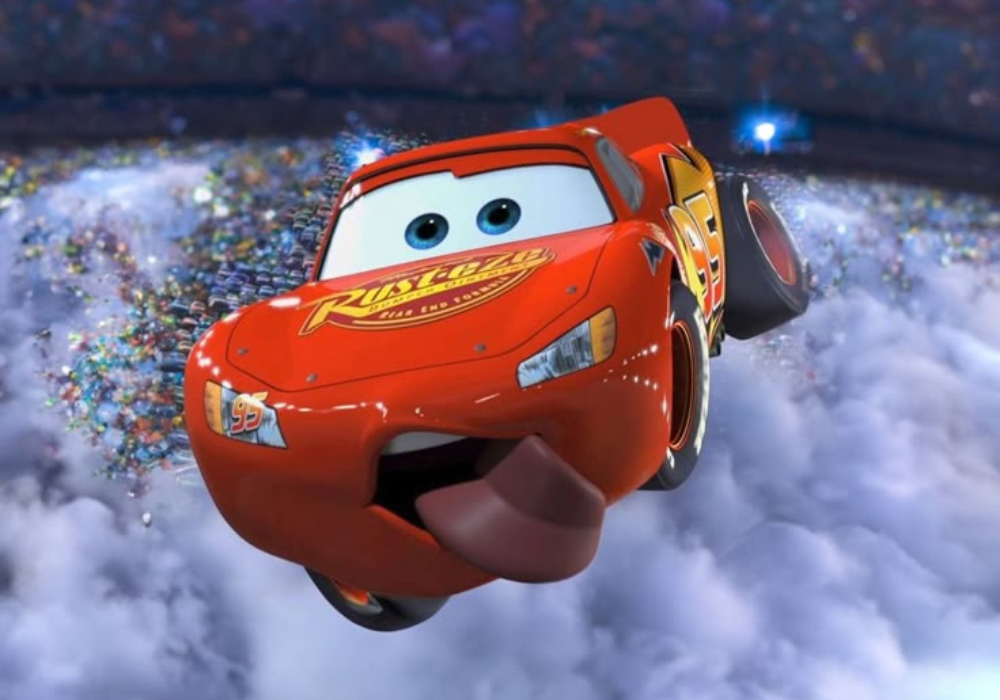
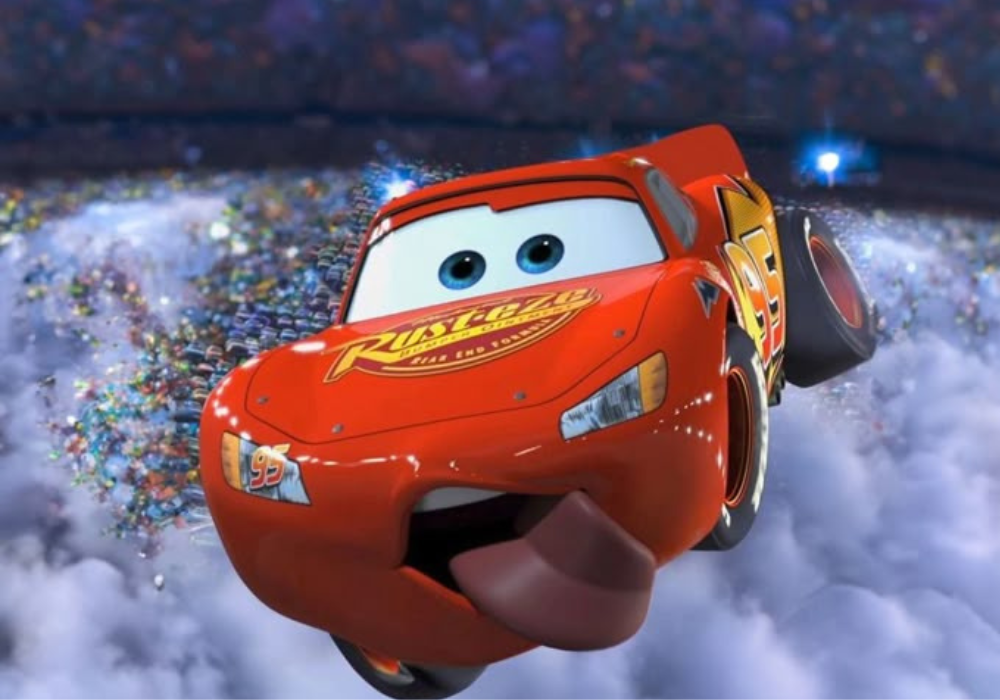
Adição do objeto decorativo com movimentação randômica e melhorias gráficas

diff --git a/main.py b/main.py
@@ -9,7 +9,7 @@ from recursos.funcoes import escreverDados
 from recursos.funcoes import registrar_log
 import json
 
-# Adicionando o LOG
+
 def main():
     registrar_log("Sistema iniciado com sucesso.")
     print("Executando o programa...")
@@ -27,14 +27,17 @@ icone  = pygame.image.load("assets/icone.png")
 pygame.display.set_icon(icone)
 branco = (255,255,255)
 preto = (0, 0 ,0 )
-iron = pygame.image.load("assets/iron.png")
+azul = (0, 0, 255)
+vermelho = (255, 0, 0)
+iron = pygame.image.load("assets/iron.png").convert_alpha() 
 iron = pygame.transform.scale(pygame.image.load("assets/iron.png"), (300, 200))
 fundoStart = pygame.image.load("assets/fundoStart.png")
 fundoJogo = pygame.image.load("assets/fundoJogo.png")
 fundoDead = pygame.image.load("assets/fundoDead.png")
-missel = pygame.image.load("assets/missile.png")
-circle = pygame.image.load("assets/circle.png").convert_alpha() # Objeto pulsativo
+missel = pygame.image.load("assets/missile.png").convert_alpha() 
+circle = pygame.image.load("assets/circle.png").convert_alpha() 
 fundoIntro = pygame.image.load("assets/fundoIntro.png")
+objrandom = pygame.image.load("assets/objrandom.png").convert_alpha() 
 missileSound = pygame.mixer.Sound("assets/missile.mp3")
 explosaoSound = pygame.mixer.Sound("assets/explosao.mp3")
 fonteMenu = pygame.font.SysFont("comicsans",18)
@@ -42,21 +45,19 @@ fonteMorte = pygame.font.SysFont("arial",120)
 pygame.mixer.music.load("assets/ironsound.mp3")
 pygame.mixer.music.set_volume(0.2)
 
+
 def jogar():
     largura_janela = 300
     altura_janela = 50
     def obter_nome():
-        global nome # variavel que pode ser acessada fora da def
-        nome = entry_nome.get()  # Obtém o texto digitado
-        if not nome:  # Se o campo estiver vazio
-            messagebox.showwarning("Aviso", "Por favor, digite seu nome!")  # Exibe uma mensagem de aviso
+        global nome 
+        nome = entry_nome.get()  
+        if not nome:  
+            messagebox.showwarning("Aviso", "Por favor, digite seu nome!")  
         else:
-            #print(f'Nome digitado: {nome}')  # Exibe o nome no console
-            root.destroy()  # Fecha a janela após a entrada válida
+            root.destroy()  
 
-    # Criação da janela principal
     root = tk.Tk()
-    # Obter as dimensões da tela
     largura_tela = root.winfo_screenwidth()
     altura_tela = root.winfo_screenheight()
     pos_x = (largura_tela - largura_janela) // 2
@@ -65,18 +66,14 @@ def jogar():
     root.title("Informe seu nickname")
     root.protocol("WM_DELETE_WINDOW", obter_nome)
 
-    # Entry (campo de texto)
     entry_nome = tk.Entry(root)
     entry_nome.pack()
 
-    # Botão para pegar o nome
     botao = tk.Button(root, text="Enviar", command=obter_nome)
     botao.pack()
 
-    # Inicia o loop da interface gráfica
     root.mainloop()
 
-    # Tela de boas-vindas
     esperando = True
     while esperando:
         for evento in pygame.event.get():
@@ -85,25 +82,26 @@ def jogar():
             elif evento.type == pygame.MOUSEBUTTONDOWN:
                 if botaoIniciar.collidepoint(evento.pos):
                     esperando = False
-
-        tela.fill(branco)
+        
         tela.blit(fundoIntro, (0,0))
 
-        # Mensagens
-        titulo = pygame.font.SysFont("arialblack", 70).render(f"Bem-vindo, {nome}!", True, preto)
+        titulo = pygame.font.SysFont("arialblack", 70).render(f"Bem-vindo, {nome}!", True, vermelho)
         instrucoes = pygame.font.SysFont("arial", 35).render("Use o potente motor V8 do Lightning McQueen e desvie dos raios!", True, branco)
-        iniciarTexto = pygame.font.SysFont("arial", 30).render("Clique aqui para iniciar", True, preto)
+        iniciarTexto = pygame.font.SysFont("arial", 30).render("Clique aqui para iniciar", True, branco)
 
         tela.blit(titulo, (2, 2))
-        tela.blit(instrucoes, (4,100))
+        tela.blit(instrucoes, (8,100))
 
-        # Botão
-        botaoIniciar = pygame.draw.rect(tela, branco, (4,180, 300, 50), border_radius=15)
+        botaoIniciar = pygame.draw.rect(tela, azul, (8,180, 300, 50), border_radius=15)
         tela.blit(iniciarTexto, (4 + (300 - iniciarTexto.get_width()) // 2, 180 + (50 - iniciarTexto.get_height()) // 2))
-
+        
         pygame.display.update()
         relogio.tick(60)
 
+    posX_objrandom = random.randint(0, tamanho[0] - objrandom.get_width())
+    posY_objrandom = random.randint(0, tamanho[1] - objrandom.get_height())
+    velX_objrandom = random.choice([-2, -1, 1, 2])
+    velY_objrandom = random.choice([-2, -1, 1, 2])
     posicaoXPersona = 400
     posicaoYPersona = 300
     movimentoXPersona  = 0
@@ -111,17 +109,9 @@ def jogar():
     posicaoXMissel = 400
     posicaoYMissel = -240
     velocidadeMissel = 1
-    pygame.mixer.Sound.play(missileSound)
-    pygame.mixer.music.play(-1) # -1 = looping
+    pygame.mixer.music.play(-1)
     pontos = 0
-    larguraPersona = 250
-    alturaPersona = 127
-    larguaMissel  = 50
-    alturaMissel  = 250
-    dificuldade  = 30
 
-
-    # Implementando o botão de PAUSE
     pausado = False
 
     while True:
@@ -130,7 +120,7 @@ def jogar():
                 quit()
             elif evento.type == pygame.KEYDOWN:
                 if evento.key == pygame.K_SPACE:
-                    pausado = not pausado  # Alterna entre pausado/despausado
+                    pausado = not pausado  
                 elif not pausado:
                     if evento.key == pygame.K_RIGHT:
                         movimentoXPersona = 15
@@ -152,13 +142,12 @@ def jogar():
             relogio.tick(10)
             continue 
         
-        # Movimento apenas em um eixo por vez
         if movimentoXPersona != 0:
             posicaoXPersona += movimentoXPersona
-            movimentoYPersona = 0  # Cancela movimento Y se houver em X
+            movimentoYPersona = 0  
         elif movimentoYPersona != 0:
             posicaoYPersona += movimentoYPersona
-            movimentoXPersona = 0  # Cancela movimento X se houver em Y
+            movimentoXPersona = 0  
 
         if posicaoXPersona < 0 :
             posicaoXPersona = 0
@@ -170,24 +159,28 @@ def jogar():
         elif posicaoYPersona > 540:
             posicaoYPersona = 540
         
+        posX_objrandom += velX_objrandom
+        posY_objrandom += velY_objrandom
+
+        if posX_objrandom <= 0 or posX_objrandom >= tamanho[0] - objrandom.get_width():
+            velX_objrandom = -velX_objrandom
+        if posY_objrandom <= 0 or posY_objrandom >= tamanho[1] - objrandom.get_height():
+            velY_objrandom = -velY_objrandom
             
         tela.fill(branco)
         tela.blit(fundoJogo, (0,0) )
-        #pygame.draw.circle(tela, preto, (posicaoXPersona,posicaoYPersona), 40, 0 )
+        tela.blit(objrandom, (posX_objrandom, posY_objrandom))
         tela.blit( iron, (posicaoXPersona, posicaoYPersona) )
-
-         # Lógica de pulsação
+    
         tempo = pygame.time.get_ticks() / 1000  
         escala = 1 + 0.1 * math.sin(tempo * 4)
 
-        # Redimensiona a imagem conforme a escala
         largura_original, altura_original = circle.get_size()
         nova_largura = int(largura_original * escala)
         nova_altura = int(altura_original * escala)
         circle_pulsando = pygame.transform.scale(circle, (nova_largura, nova_altura))
 
-        # Posição no canto superior direito
-        pos_x = tamanho[0] - nova_largura - 20  # 20 px de margem da borda
+        pos_x = tamanho[0] - nova_largura - 20  
         pos_y = 20
 
         tela.blit(circle_pulsando, (pos_x, pos_y))
@@ -200,33 +193,26 @@ def jogar():
             velocidadeMissel = velocidadeMissel + 1
             posicaoXMissel = random.randint(0,800)
             
-            
         tela.blit( missel, (posicaoXMissel, posicaoYMissel) )
         
         texto = fonteMenu.render("Pontos: "+str(pontos), True, branco)
         tela.blit(texto, (15,15))
-        # Mostrando ao usuário a opção PAUSE
+        
         pauseHint = fonteMenu.render("Press Space to Pause Game", True, preto)
-        tela.blit(pauseHint, (150, 15))  # posição ajustável
+        tela.blit(pauseHint, (150, 15))  
 
-        
-        pixelsPersonaX = list(range(posicaoXPersona, posicaoXPersona+larguraPersona))
-        pixelsPersonaY = list(range(posicaoYPersona, posicaoYPersona+alturaPersona))
-        pixelsMisselX = list(range(posicaoXMissel, posicaoXMissel + larguaMissel))
-        pixelsMisselY = list(range(posicaoYMissel, posicaoYMissel + alturaMissel))
-        
-        os.system("cls")
-        # print( len( list( set(pixelsMisselX).intersection(set(pixelsPersonaX))   ) )   )
-        if  len( list( set(pixelsMisselY).intersection(set(pixelsPersonaY))) ) > dificuldade:
-            if len( list( set(pixelsMisselX).intersection(set(pixelsPersonaX))   ) )  > dificuldade:
-                escreverDados(nome, pontos)
-                dead()
-                
-            else:
-                print("Ainda Vivo, mas por pouco!")
+        mask_iron = pygame.mask.from_surface(iron)
+        mask_missel = pygame.mask.from_surface(missel)
+
+        offset = (posicaoXMissel - posicaoXPersona, posicaoYMissel - posicaoYPersona)
+        colidiu = mask_iron.overlap(mask_missel, offset)
+
+        if colidiu:
+            escreverDados(nome, pontos)
+            dead()
         else:
             print("Ainda Vivo")
-        
+
         pygame.display.update()
         relogio.tick(60)
 
@@ -237,7 +223,6 @@ def start():
     larguraButtonQuit = 150
     alturaButtonQuit  = 40
     
-
     while True:
         for evento in pygame.event.get():
             if evento.type == pygame.QUIT:
@@ -252,20 +237,15 @@ def start():
 
                 
             elif evento.type == pygame.MOUSEBUTTONUP:
-                # Verifica se o clique foi dentro do retângulo
                 if startButton.collidepoint(evento.pos):
-                    #pygame.mixer.music.play(-1)
                     larguraButtonStart = 150
                     alturaButtonStart  = 40
                     jogar()
                 if quitButton.collidepoint(evento.pos):
-                    #pygame.mixer.music.play(-1)
                     larguraButtonQuit = 150
                     alturaButtonQuit  = 40
                     quit()
-                    
-            
-            
+                     
         tela.fill(branco)
         tela.blit(fundoStart, (0,0) )
 
@@ -289,19 +269,15 @@ def dead():
     larguraButtonQuit = 150
     alturaButtonQuit  = 40
     
-    
     root = tk.Tk()
     root.title("Tela da Morte")
 
-    # Adiciona um título na tela
     label = tk.Label(root, text="Log das Partidas", font=("Arial", 16))
     label.pack(pady=10)
 
-    # Criação do Listbox para mostrar o log
     listbox = tk.Listbox(root, width=50, height=10, selectmode=tk.SINGLE)
     listbox.pack(pady=20)
 
-    # Adiciona o log das partidas no Listbox
     log_partidas = open("base.atitus", "r").read()
     log_partidas = json.loads(log_partidas)
     for chave in log_partidas:
@@ -320,27 +296,19 @@ def dead():
                     larguraButtonQuit = 140
                     alturaButtonQuit  = 35
 
-                
             elif evento.type == pygame.MOUSEBUTTONUP:
-                # Verifica se o clique foi dentro do retângulo
                 if startButton.collidepoint(evento.pos):
-                    #pygame.mixer.music.play(-1)
                     larguraButtonStart = 150
                     alturaButtonStart  = 40
                     jogar()
                 if quitButton.collidepoint(evento.pos):
-                    #pygame.mixer.music.play(-1)
                     larguraButtonQuit = 150
                     alturaButtonQuit  = 40
                     quit()
                     
-        
-            
-            
         tela.fill(branco)
         tela.blit(fundoDead, (0,0) )
 
-        
         startButton = pygame.draw.rect(tela, branco, (10,10, larguraButtonStart, alturaButtonStart), border_radius=15)
         startTexto = fonteMenu.render("Iniciar Game", True, preto)
         tela.blit(startTexto, (25,12))
@@ -349,10 +317,8 @@ def dead():
         quitTexto = fonteMenu.render("Sair do Game", True, preto)
         tela.blit(quitTexto, (25,62))
 
-
         pygame.display.update()
         relogio.tick(60)
 
 
 start()
-

diff --git a/setup.py b/setup.py
@@ -1,4 +1,3 @@
-# pip install cx_freeze
 import cx_Freeze
 executaveis = [ 
                cx_Freeze.Executable(script="feito.py", icon="assets/icone.ico") ]
@@ -12,5 +11,6 @@ cx_Freeze.setup(
     }, executables = executaveis
 )
 
+# pip install cx_freeze
 # python setup.py build
 # python setup.py bdist_msi
